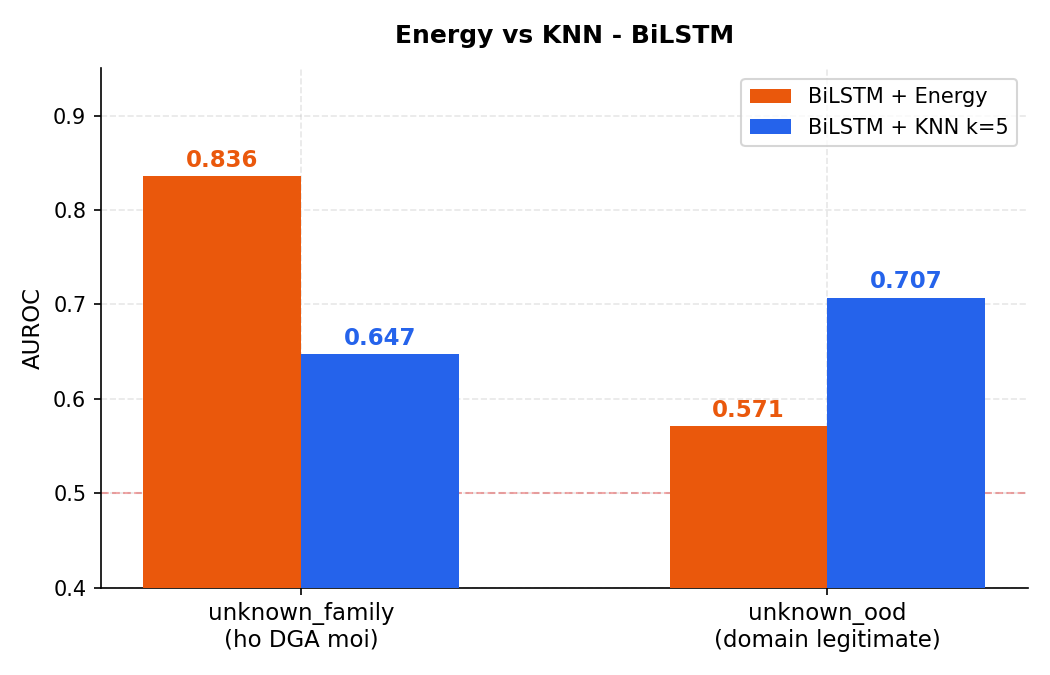
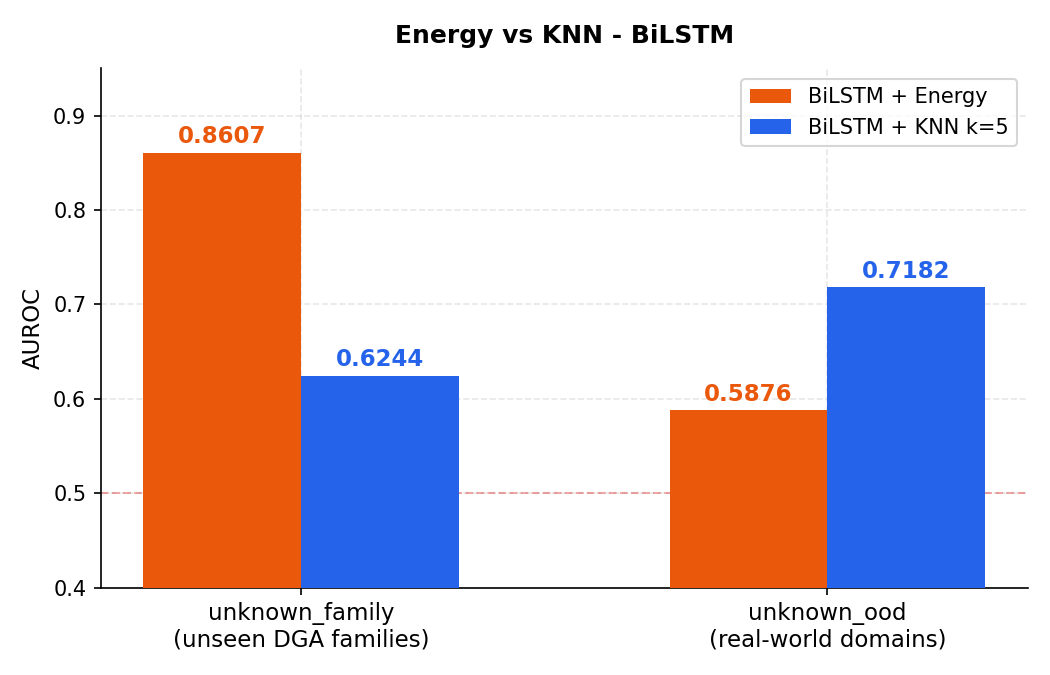
fix(figures): regenerate fig4-6 from new_run, full English labels

diff --git a/src/plot_results.py b/src/plot_results.py
@@ -36,8 +36,8 @@ RED    = "#DC2626"
 # Figure 1 - Classification accuracy (MC-Acc / Binary AUC)
 # ══════════════════════════════════════════════════════════════════════════════
 models   = ["20-class\nLGBM", "Char-CNN", "BiLSTM"]
-mc_acc   = [0.654,  0.926,  0.935]
-bin_auc  = [0.946,  0.995,  0.996]
+mc_acc   = [0.7747, 0.9284, 0.9409]
+bin_auc  = [0.9690, 0.9964, 0.9968]
 
 fig, ax = plt.subplots(figsize=(7, 4.5))
 x = np.arange(len(models))
@@ -73,7 +73,7 @@ print(f"[OK] {OUT_DIR}/fig1_classification.png")
 # Figure 2 - OOD unknown_family
 # ══════════════════════════════════════════════════════════════════════════════
 uf_labels = ["LGBM\nMSP", "Char-CNN\nMSP", "BiLSTM\nMSP", "BiLSTM\nEnergy\n(best)"]
-uf_auroc  = [0.550,       0.670,           0.661,           0.836               ]
+uf_auroc  = [0.5789,      0.6912,          0.6947,          0.8607              ]
 uf_colors = [GRAY,        GRAY,            GRAY,            GREEN               ]
 
 fig, ax = plt.subplots(figsize=(7, 4.8))
@@ -102,7 +102,7 @@ print(f"[OK] {OUT_DIR}/fig2_ood_unknown_family.png")
 # Figure 3 - OOD unknown_ood
 # ══════════════════════════════════════════════════════════════════════════════
 oo_labels = ["LGBM\nMSP", "BiLSTM\nEnergy", "Char-CNN\nKNN k=5", "BiLSTM\nKNN k=5\n(best)"]
-oo_auroc  = [0.529,       0.571,           0.680,              0.707              ]
+oo_auroc  = [0.5634,      0.5876,          0.6909,             0.7182             ]
 oo_colors = [GRAY,        GRAY,            BLUE,               GREEN              ]
 
 fig, ax = plt.subplots(figsize=(7, 4.8))
@@ -130,9 +130,9 @@ print(f"[OK] {OUT_DIR}/fig3_ood_unknown_ood.png")
 # ══════════════════════════════════════════════════════════════════════════════
 # Figure 4 - So sanh Energy vs KNN tren hai split
 # ══════════════════════════════════════════════════════════════════════════════
-splits  = ["unknown_family\n(ho DGA moi)", "unknown_ood\n(domain legitimate)"]
-energy  = [0.836, 0.571]
-knn     = [0.647, 0.707]
+splits  = ["unknown_family\n(unseen DGA families)", "unknown_ood\n(real-world domains)"]
+energy  = [0.8607, 0.5876]
+knn     = [0.6244, 0.7182]
 
 x = np.arange(len(splits))
 w = 0.3
@@ -143,10 +143,10 @@ b2 = ax.bar(x + w/2, knn,    w, label="BiLSTM + KNN k=5", color=BLUE,   zorder=3
 
 for bar, val in zip(b1, energy):
     ax.text(bar.get_x() + bar.get_width()/2, bar.get_height() + 0.01,
-            f"{val:.3f}", ha="center", fontsize=11, color=ORANGE, fontweight="bold")
+            f"{val:.4f}", ha="center", fontsize=11, color=ORANGE, fontweight="bold")
 for bar, val in zip(b2, knn):
     ax.text(bar.get_x() + bar.get_width()/2, bar.get_height() + 0.01,
-            f"{val:.3f}", ha="center", fontsize=11, color=BLUE, fontweight="bold")
+            f"{val:.4f}", ha="center", fontsize=11, color=BLUE, fontweight="bold")
 
 ax.set_xticks(x)
 ax.set_xticklabels(splits, fontsize=11)
@@ -169,13 +169,13 @@ print(f"[OK] {OUT_DIR}/fig4_energy_vs_knn.png")
 import glob
 
 # Tim bilstm dir tu dong
-_bilstm_dirs = sorted(glob.glob("baseline_out/bilstm_*/"))
-_bilstm_dir = _bilstm_dirs[-1].rstrip("/") if _bilstm_dirs else "baseline_out/bilstm_20260414_222503"
+_bilstm_dirs = sorted(glob.glob("baseline_out/bilstm_[0-9]*/"))
+_bilstm_dir = _bilstm_dirs[-1].rstrip("/") if _bilstm_dirs else "baseline_out/bilstm_20260531_015530"
 
 _score_files = {
-    "known (ID)":               f"{_bilstm_dir}/scores_energy_known.csv",
-    "unknown family (DGA moi)": f"{_bilstm_dir}/scores_energy_unknown_family.csv",
-    "unknown OOD (legitimate)": f"{_bilstm_dir}/scores_energy_unknown_ood.csv",
+    "known (ID)":                    f"{_bilstm_dir}/scores_energy_known.csv",
+    "unknown family (unseen DGA)":   f"{_bilstm_dir}/scores_energy_unknown_family.csv",
+    "unknown OOD (real-world)":      f"{_bilstm_dir}/scores_energy_unknown_ood.csv",
 }
 
 _loaded = {}
@@ -188,9 +188,9 @@ for _label, _path in _score_files.items():
 
 if len(_loaded) >= 2:
     _colors = {
-        "known (ID)":               BLUE,
-        "unknown family (DGA moi)": ORANGE,
-        "unknown OOD (legitimate)": GRAY,
+        "known (ID)":                  BLUE,
+        "unknown family (unseen DGA)": ORANGE,
+        "unknown OOD (real-world)":    GRAY,
     }
     _SAMPLE = 10_000
 
@@ -204,7 +204,7 @@ if len(_loaded) >= 2:
                 color=_colors.get(_label, GRAY), label=_label)
     ax.set_xlabel("OOD Score (Energy)", fontsize=11)
     ax.set_ylabel("Density", fontsize=11)
-    ax.set_title("Phan phoi OOD Score - BiLSTM Energy", fontsize=12, fontweight="bold")
+    ax.set_title("Score Distribution – BiLSTM + Energy", fontsize=12, fontweight="bold")
     ax.legend(fontsize=9)
 
     ax2 = axes[1]
@@ -223,7 +223,7 @@ if len(_loaded) >= 2:
     ax2.set_xticks(range(1, len(_box_labels) + 1))
     ax2.set_xticklabels(_box_labels, fontsize=9)
     ax2.set_ylabel("OOD Score (Energy)", fontsize=11)
-    ax2.set_title("Box Plot - phan tach ID vs OOD", fontsize=12, fontweight="bold")
+    ax2.set_title("Boxplot: ID vs OOD Separation", fontsize=12, fontweight="bold")
 
     fig.suptitle(
         "Confidence Score Distribution: in-distribution vs OOD (BiLSTM + Energy)",
@@ -239,9 +239,9 @@ else:
 # ══════════════════════════════════════════════════════════════════════════════
 # Figure 6 - Benign overfit analysis: per-source OOD score breakdown
 # ══════════════════════════════════════════════════════════════════════════════
-_bilstm_dirs = sorted(glob.glob("baseline_out/bilstm_*/"))
-_bilstm_dir  = _bilstm_dirs[-1].rstrip("/") if _bilstm_dirs else "baseline_out/bilstm_20260414_222503"
-_dataset_dir = "data/processed"
+_bilstm_dirs = sorted(glob.glob("baseline_out/bilstm_[0-9]*/"))
+_bilstm_dir  = _bilstm_dirs[-1].rstrip("/") if _bilstm_dirs else "baseline_out/bilstm_20260531_015530"
+_dataset_dir = "../data/processed"
 
 try:
     _ood_meta  = pd.read_csv(f"{_dataset_dir}/unknown_ood/test_unknown_ood.csv")
